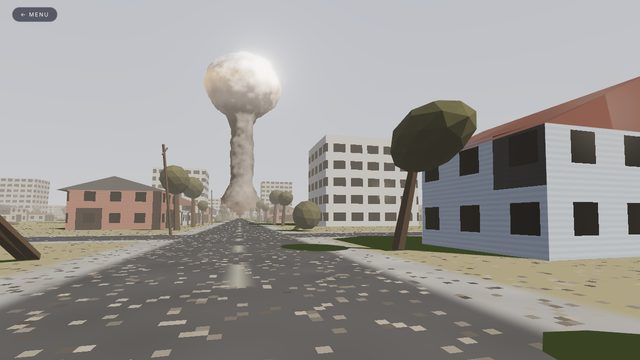
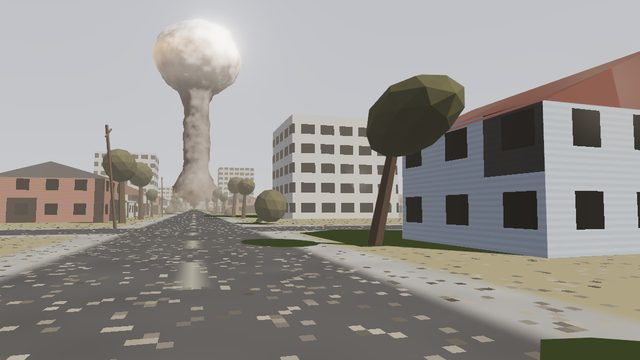
Le Soleil emporté : la trilogie Black Hole de Jason Thomson créditée dans le titre, le menu et l'avertissement
Claude-Session: https://claude.ai/code/session_01PaeMS2YEAAw3wjEj39A52E

diff --git a/src/ev_rogue.js b/src/ev_rogue.js
@@ -1,5 +1,5 @@
 // FICTION : un trou noir de quatre masses solaires passe à l'intérieur de l'orbite de Mars. C'est le Soleil qui est arraché à ses planètes.
-// Point de départ inspiré de la trilogie « Black Hole » de Jason Thomson ; masse, vitesse, trajectoire et calcul sont ceux de cette scène (nbody.js).
+// Point de départ inspiré de la trilogie « Black Hole » de Jason Thomson (The Approach, The Reconfiguration, The Reckoning ; Glass Creek Press) ; masse, vitesse, trajectoire et calcul sont ceux de cette scène (nbody.js).
 import { createKit, T, TF, THREE, fmtDur, fmtDist, fr, clamp, YEAR, DAY, makeStars, makeGlow } from './kit.js';
 import { simulate, elements, IDX, G, KMS } from './nbody.js';
 import { makeBH } from './bh.js';
@@ -69,9 +69,9 @@ export function start() {
   const POI = Object.fromEntries(pois.map(p => [p.id, p])); pois.sort((a, b) => PRI.indexOf(a.id) - PRI.indexOf(b.id));
   const relSun = (i, ty) => { st(i, ty, _a, _va); st(S, ty, _b, _vb); sub(_a, _b, _c); sub(_va, _vb, _vc); return elements(_c[0], _c[1], _c[2], _vc[0], _vc[1], _vc[2], G); };
   const kit = createKit({
-    title: T('Fiction · le Soleil arraché par un trou noir'), kicker: T('Fiction · un scénario calculé, pas une prévision'), h1: T('Et si un trou noir emportait le Soleil ?'),
+    title: T('Fiction inspirée de la trilogie « Black Hole » de Jason Thomson'), kicker: T('Fiction · un scénario calculé, pas une prévision'), h1: T('Et si un trou noir emportait le Soleil ?'),
     intro: T('Ceci est une fiction. Un trou noir de 4,1 masses solaires, 24 km de diamètre, traverse le système solaire à 118 km/s et passe à l’intérieur de l’orbite de Mars. Il pèse quatre fois le Soleil : c’est le Soleil qui est arraché à ses planètes. Le sort de la Terre dépend de l’endroit où elle se trouve ce jour-là. Tout est calculé : la gravité de onze corps, pas à pas.'),
-    warn: T('Point de départ inspiré de la trilogie « Black Hole » de Jason Thomson (un trou noir traverse le système solaire en 2199) ; la masse, la vitesse et la trajectoire retenues ici, et tout le calcul, sont ceux de cette scène, pas ceux du roman. Aucun trou noir n’est connu près du Soleil : le plus proche repéré à ce jour est à plus de mille années-lumière. Orbites de départ simplifiées : circulaires, dans un même plan. Marées, climat et collisions ne sont pas simulés.'),
+    warn: T('Le point de départ vient de la trilogie « Black Hole » de Jason Thomson (The Approach, The Reconfiguration, The Reckoning) : le 9 novembre 2199, un trou noir traverse le système solaire et passe à l’intérieur de l’orbite de Mars. Seule cette prémisse est reprise. La masse, la vitesse et la trajectoire retenues ici, tout le calcul et ce qui arrive aux planètes sont ceux de cette scène, pas ceux des romans.') + ' ' + T('Aucun trou noir n’est connu près du Soleil : le plus proche repéré à ce jour est à plus de mille années-lumière. Orbites de départ simplifiées : circulaires, dans un même plan. Marées, climat et collisions ne sont pas simulés.'),
     views: [{ id: 'system', label: T('Le système solaire'), cam: { mode: 'orbit', dist: 70, min: 0.0006, max: 2500, pitch: 0.7, yaw: 0.5, fov: 45 } }, { id: 'sun', label: T('En suivant le Soleil'), cam: { mode: 'orbit', dist: 4.5, min: 0.012, max: 400, pitch: 0.9, yaw: 0.5, fov: 45 } },
       { id: 'earth', label: T('Depuis la Terre'), cam: { mode: 'look', fov: 30, yaw: 0, pitch: 0 } }, { id: 'bh', label: T('Près du trou noir'), cam: { mode: 'orbit', dist: 14, min: 2.2, max: 300, pitch: 0.2, yaw: 0, fov: 60 } }],
     options: [{ id: 'sc', type: 'select', label: T('Scénario'), value: 'gone', choices: [['gone', T('La Terre est éjectée, avec la Lune')], ['stay', T('La Terre reste, sur une année de 433 jours')], ['burn', T('La Terre reste, mais plonge vers le Soleil')]] }],

diff --git a/src/index.html b/src/index.html
@@ -64,7 +64,7 @@
     </button>
     <button class="card" data-event="rogue">
       <div class="pic" style="background-image:url({{card:rogue}})"></div>
-      <div class="txt"><div class="when">Fiction calculée</div><h2>Et si un trou noir emportait le Soleil ?</h2><p>Un trou noir de quatre masses solaires passe à l’intérieur de l’orbite de Mars. Le Soleil est arraché à 50 km/s, les planètes géantes restent sur place, sans étoile. La Terre suit, plonge vers le Soleil ou part dans le noir avec la Lune : trois scénarios calculés.</p><div class="views">Le système solaire · en suivant le Soleil · depuis la Terre · près du trou noir</div><span class="cta">Entrer</span></div>
+      <div class="txt"><div class="when">Fiction inspirée de la trilogie « Black Hole » de Jason Thomson</div><h2>Et si un trou noir emportait le Soleil ?</h2><p>Un trou noir de quatre masses solaires passe à l’intérieur de l’orbite de Mars. Le Soleil est arraché à 50 km/s, les planètes géantes restent sur place, sans étoile. La Terre suit, plonge vers le Soleil ou part dans le noir avec la Lune : trois scénarios calculés. Le point de départ vient des romans de Jason Thomson, où un trou noir traverse le système solaire en 2199 ; le calcul est celui de ce simulateur.</p><div class="views">Le système solaire · en suivant le Soleil · depuis la Terre · près du trou noir</div><span class="cta">Entrer</span></div>
     </button>
     <button class="card" data-event="nuke">
       <div class="pic" style="background-image:url({{card:nuke}})"></div>

diff --git a/README.md b/README.md
@@ -34,7 +34,7 @@ Each scene has a clock you can slow down ten thousand times or speed up to a hun
 | In 4 billion years | **Milky Way against Andromeda** | 27,000 test stars integrated live; head-on collision or near miss, both scenarios. |
 | In 7.6 billion years | **The death of the Sun** | Oceans gone, red giant filling the sky, planets engulfed, helium flash, white dwarf. |
 | Fiction | **What if a black hole dislodged Saturn?** | A 300-metre black hole brakes Saturn, which falls sunward and brushes past Earth. Eleven bodies integrated step by step; two scenarios, one where the Moon is torn away. Clearly labelled as fiction. |
-| Fiction | **What if a black hole carried off the Sun?** | A black hole of four solar masses passes inside the orbit of Mars: the Sun is torn away at 50 km/s and the giant planets are left starless. Three scenarios for Earth, depending on where it is that day. Starting point inspired by Jason Thomson's *Black Hole* trilogy; the parameters and the calculation are this project's. |
+| Fiction | **What if a black hole carried off the Sun?** | A black hole of four solar masses passes inside the orbit of Mars: the Sun is torn away at 50 km/s and the giant planets are left starless. Three scenarios for Earth, depending on where it is that day. The starting point comes from Jason Thomson's *Black Hole* trilogy (*The Approach*, *The Reconfiguration*, *The Reckoning*), in which a black hole passes inside the orbit of Mars in 2199. Only that premise is borrowed; the parameters, the calculation and what happens to the planets are this project's. |
 
 <p align="center"><img src="docs/screenshots/04_chicxulub.jpg" width="49%"> <img src="docs/screenshots/05_betelgeuse.jpg" width="49%"></p>
 <p align="center"><img src="docs/screenshots/06_andromeda.jpg" width="49%"> <img src="docs/screenshots/07_sun.jpg" width="49%"></p>
